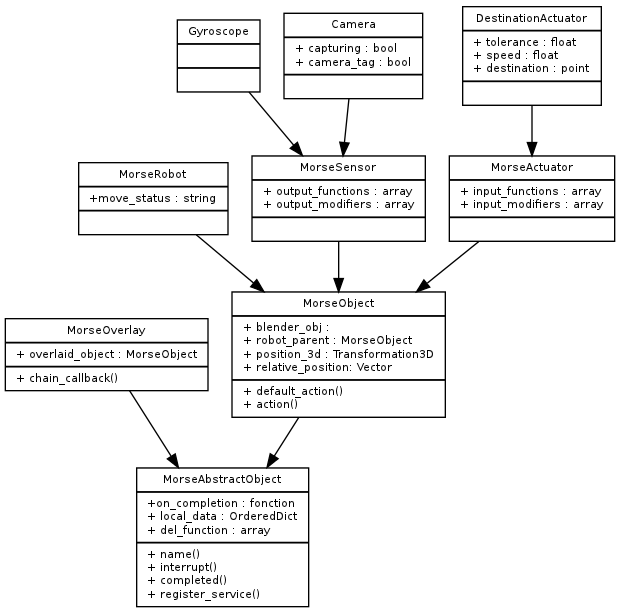
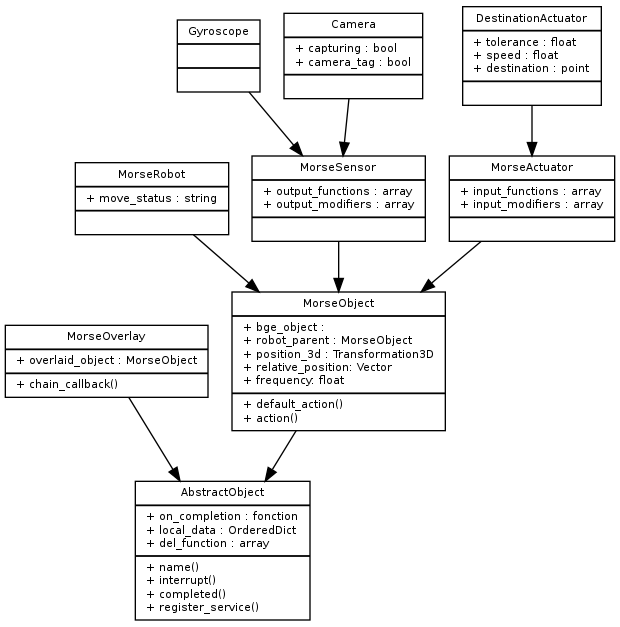
[doc] Rework a bit component_object_model
- Try to add some comment on the uml figure
- Add some missing space in the dot
- Do not forget to regenerate it with dot -Tpng

diff --git a/doc/morse/dev/component_object_model.rst b/doc/morse/dev/component_object_model.rst
@@ -1,29 +1,29 @@
 Morse Component object model
 ============================
 
-The following diagram shows the class hierarchy currently used in MORSE.
+The following diagram a partial view of the class hierarchy currently used in
+MORSE.
 
 .. image:: ../../media/morse_uml.png
    :align: center 
 
-The main entry point for Blender for each component is the method ``action``.
-Yet, it is not supposed to be overridden by leaf-classes. To modify the
-behaviour of a component, you need to modify the method ``default_action``. The
-action of ``action`` depends on whether the component is a sensor or an actuator
-(robots don't do anything by themselves). 
+The :py:class:`morse.core.abstractobject.AbstractObject` contains the logic to
+handle services (:tag:`service`). It contains also an ordered dictionary
+``local_data``, which is used to communicate between the different layer of
+Morse. It is important to have an ``OrderedDict`` and not a standard ``Dict``
+because order are used for some middleware serialization (and it is not well
+defined in the case of ``Dict``).
 
-Component internal data
-_______________________
+The :py:class:`morse.core.object.Object` contains the logic for ``real
+objects``. They own a reference to their associated blender object
+:py:data:`morse.core.object.Object.bge_object`, and contain the basic logic
+about their spatial relation. 
 
-The base :py:class:`morse.core.object.AbstractObject` defines an ordered
-dictionary called ``local_data``. This is the place where all sensors and
-actuators store the variables with the information that can eventually be
-share through the middleware connections.  (for example, it will contain the
-position for a GPS sensor, or the destination coordinates given to a motion
-actuator) The order in which this variables are defined inside of a component
-is important, since it will also be the default order in which the data is
-exported via the middlewares (in automatic serialization).
+:py:class:`morse.core.sensor.Sensor` and
+:py:class:`morse.core.actuator.Actuator` are specialization of this class,
+respectively for sensor and actuator. They add some arrays to store their
+modifiers, and their datastream handlers, and override their ``action``
+method. See :doc:`this document <./execution_loop>` to learn what happens when
+these method are called.
 
-Additionally, component classes can define any other variables internally, but
-only the information in them will not be visible outside of MORSE.
 
